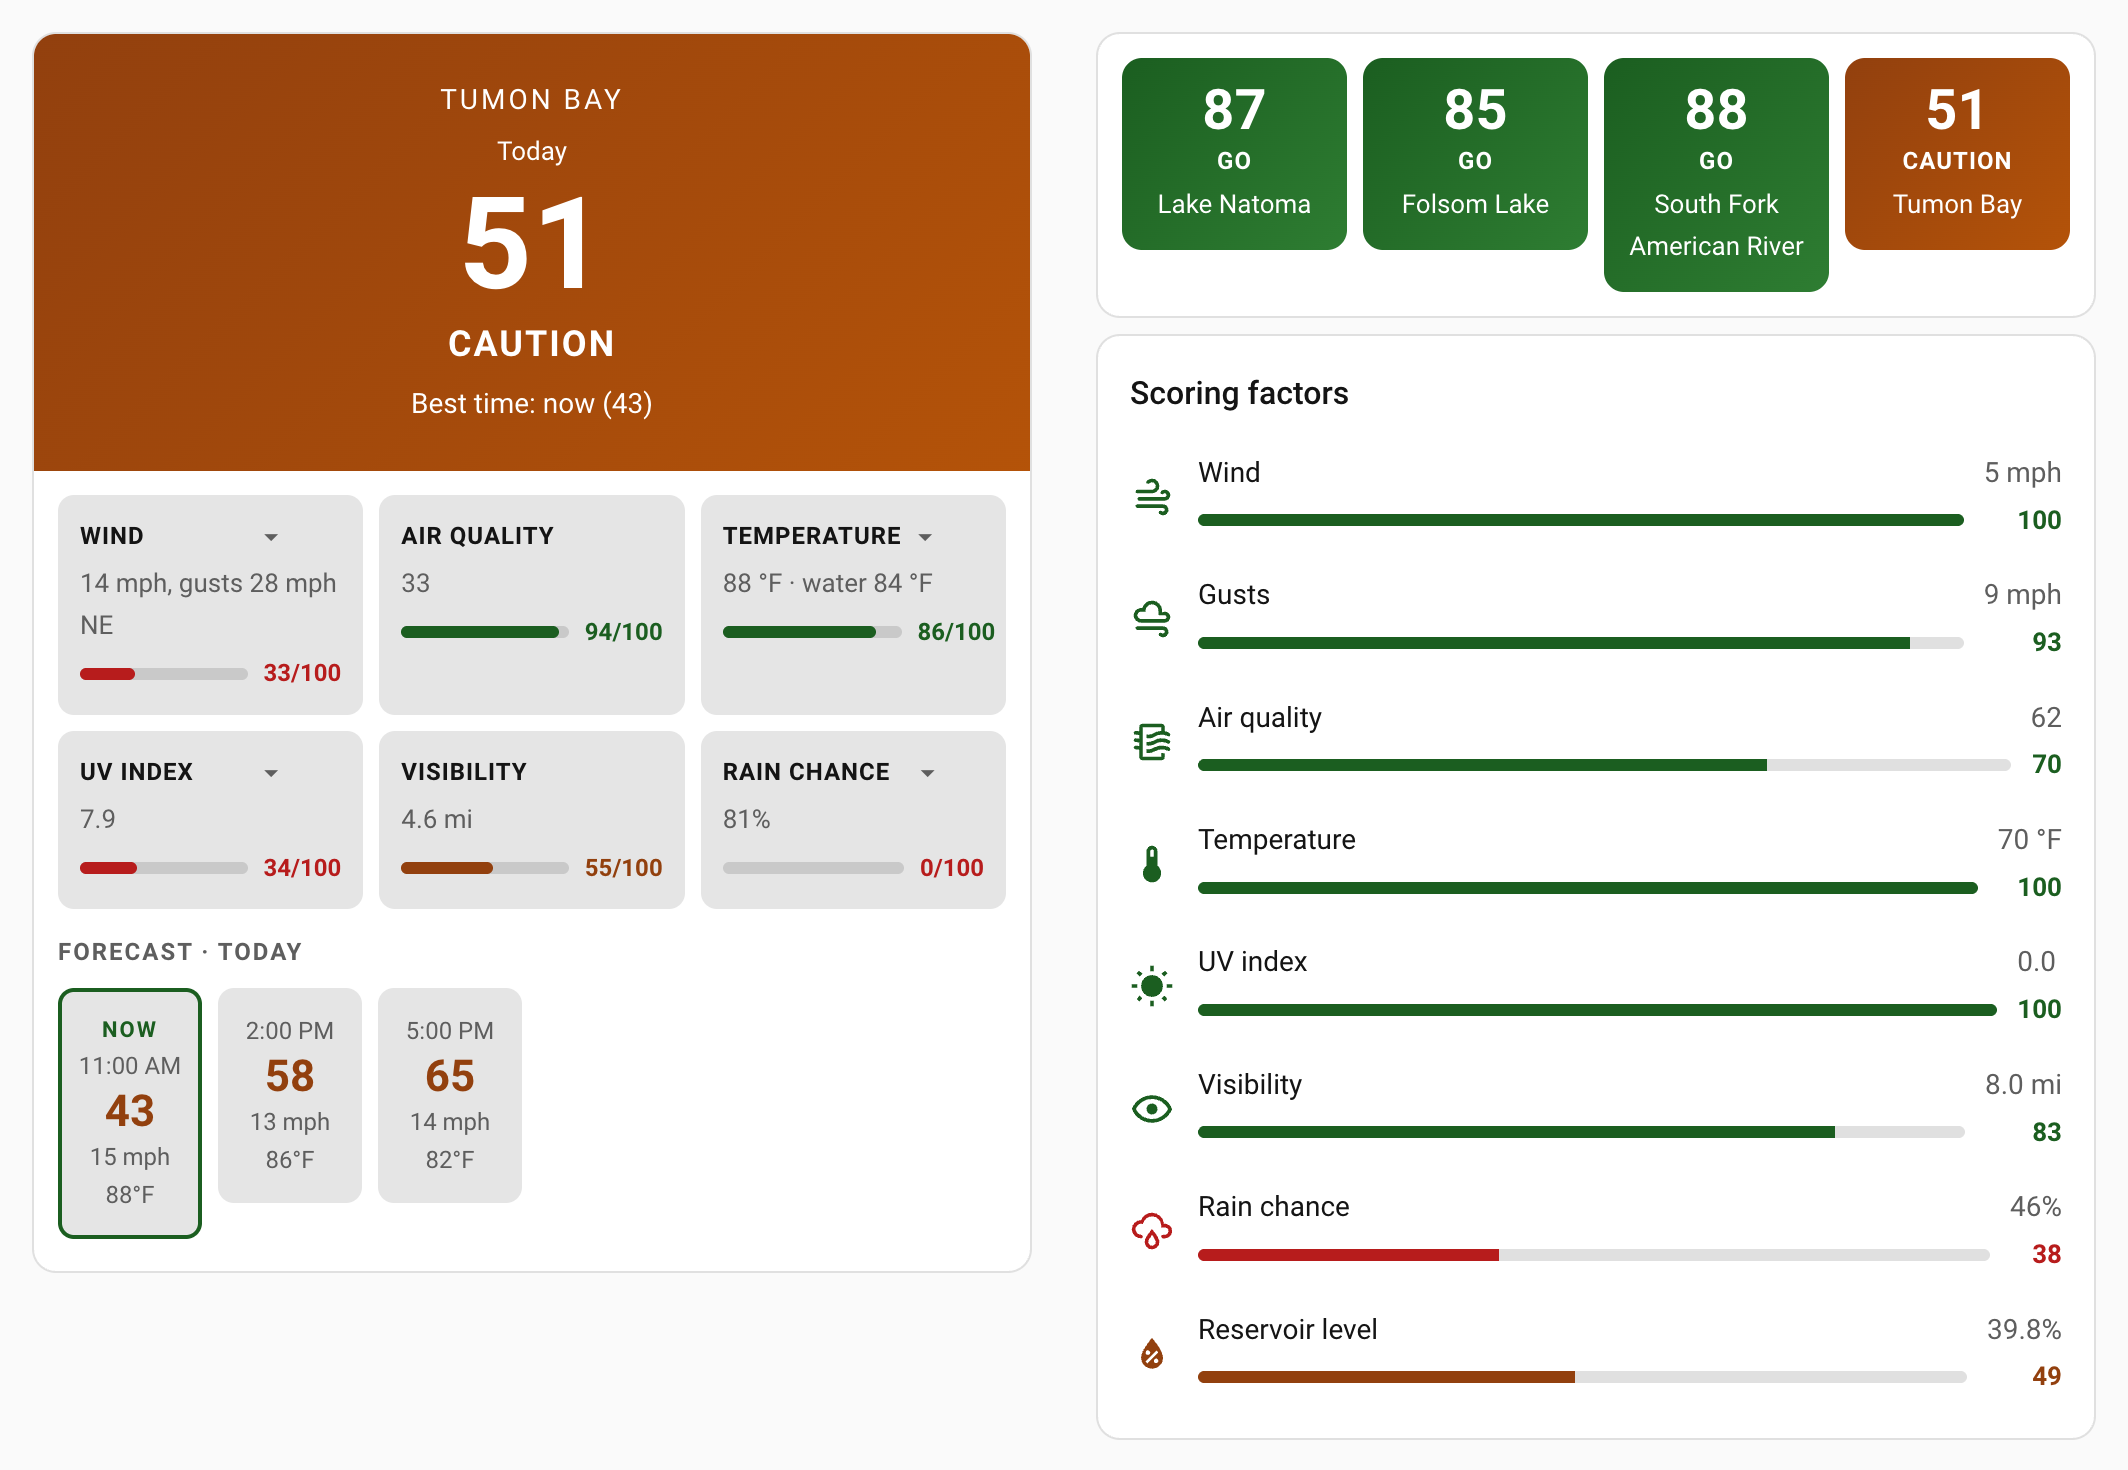
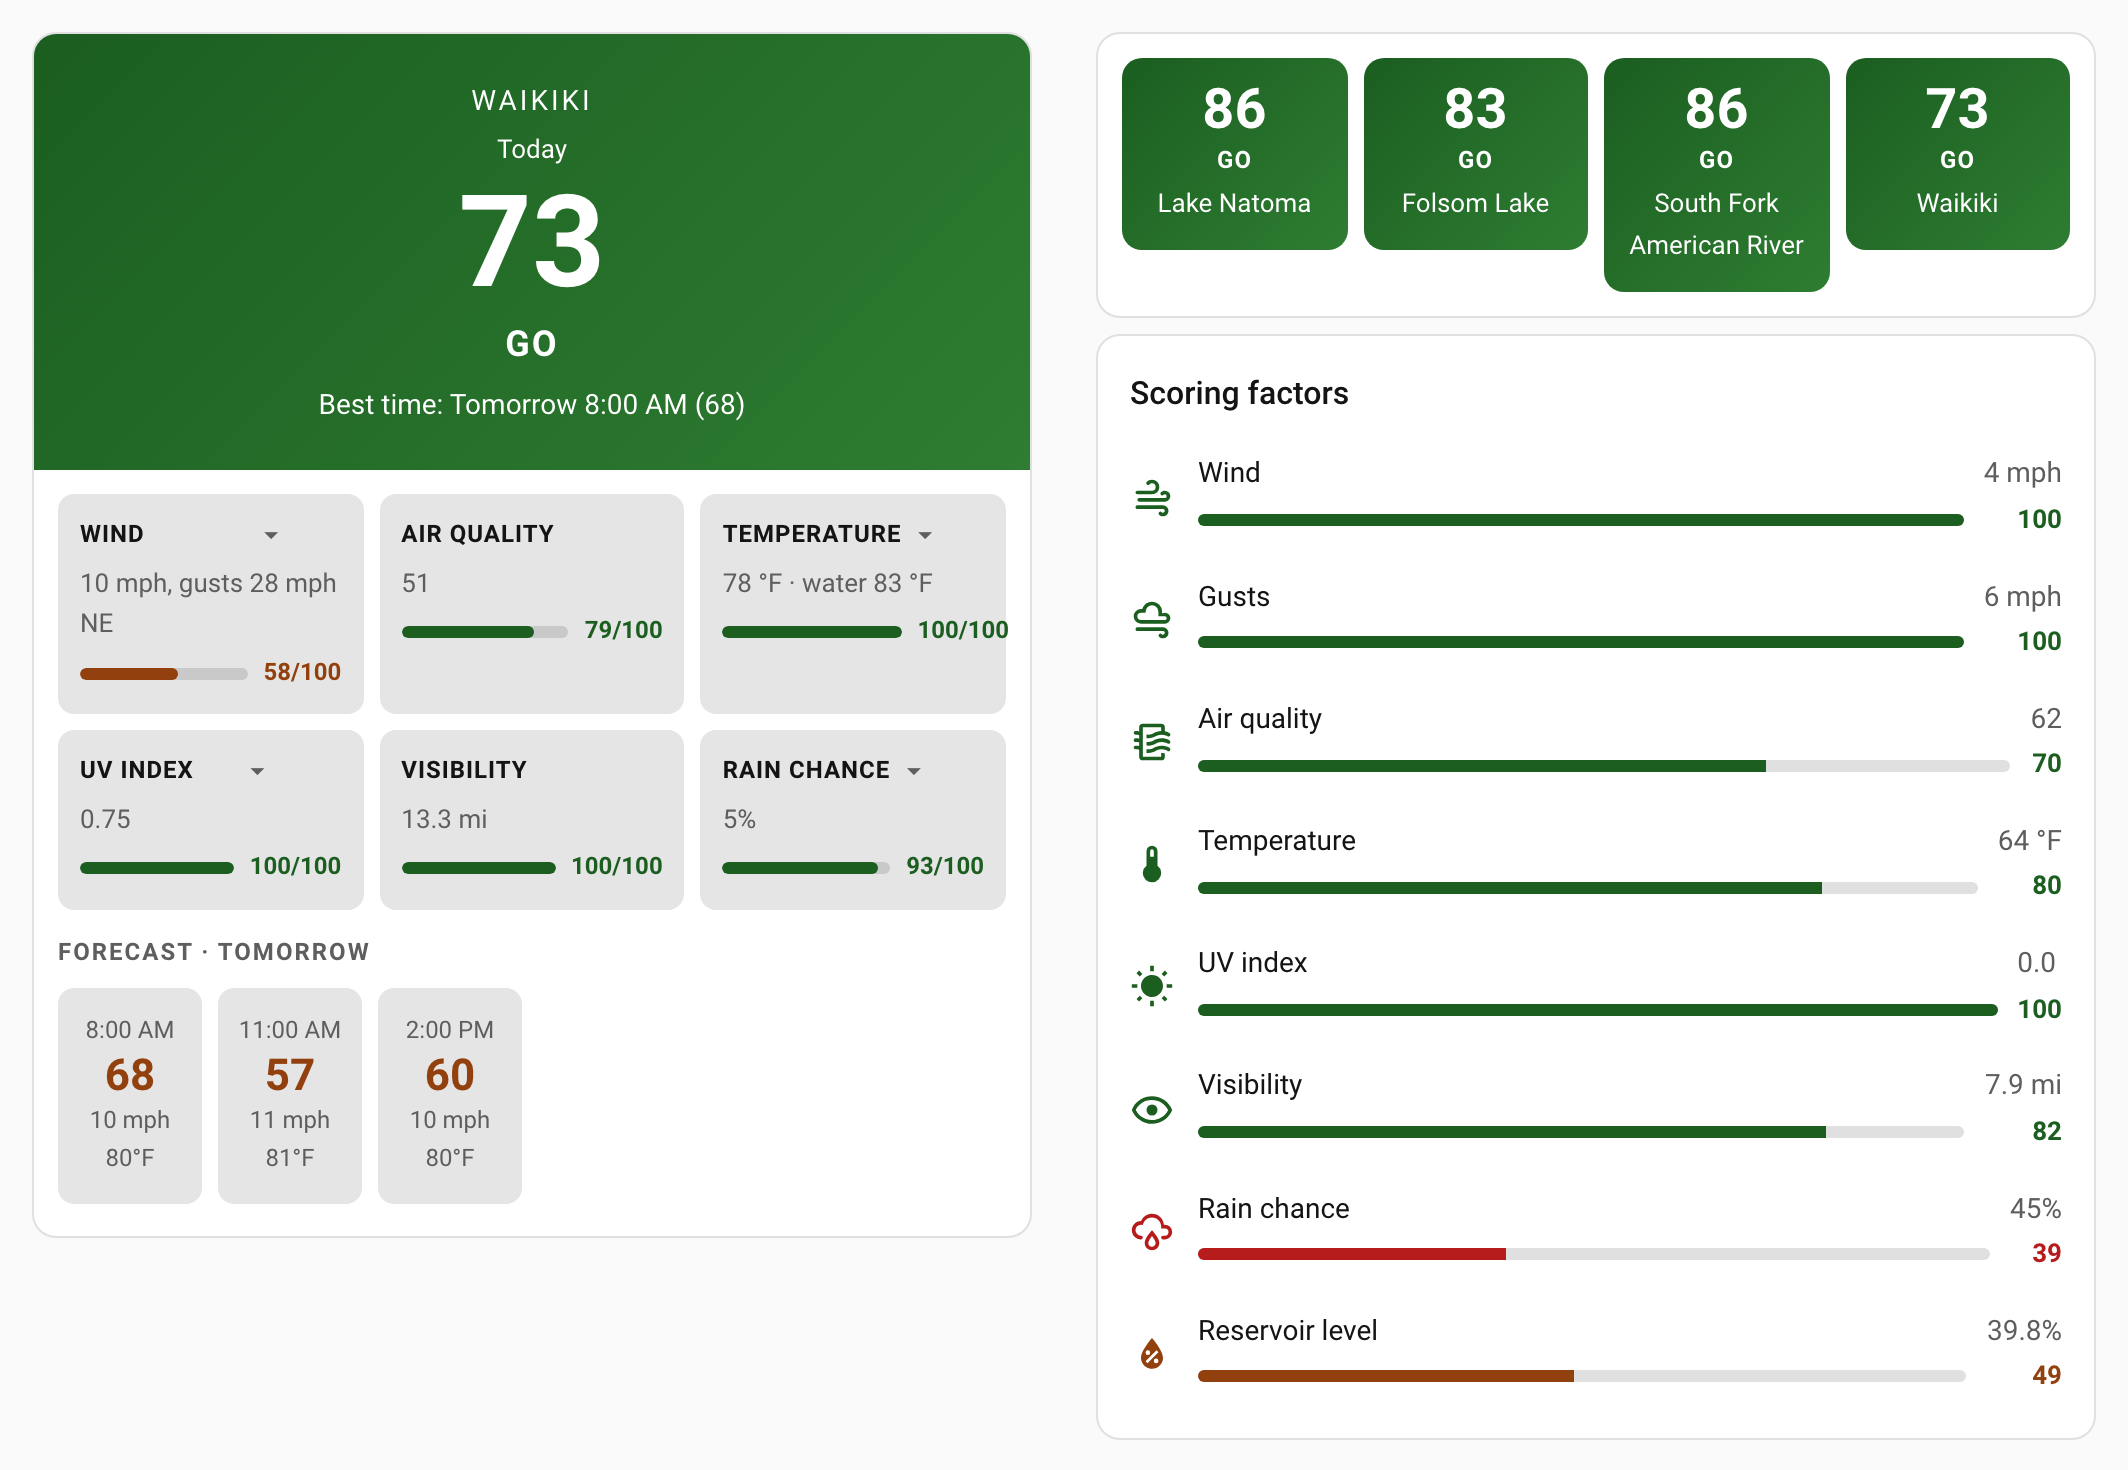
docs(readme): retake the screenshots on Waikiki at 2x
Daytime US spot at the time of the shot; the Tumon Bay images were from
Guam.

diff --git a/README.md b/README.md
@@ -7,7 +7,7 @@
 Paddle Conditions scores each of your paddle spots from 0 to 100 and calls it Go, Caution or No-go, then finds the best three-hour window in the next day. It's a [Home Assistant](https://www.home-assistant.io/) integration that reads wind, air quality, temperature, UV, visibility, rain and water data from free public sources, so there is nothing to sign up for.
 
 <p align="center">
-  <img src="docs/images/dashboard.png" alt="A Home Assistant dashboard with Paddle Conditions cards: Tumon Bay scored 51, Caution, with a tile per factor and the next three forecast blocks; a row of four spots, three Go and one Caution; and the scoring factors for Folsom Lake, including reservoir level at 39.8 percent" width="820"/>
+  <img src="docs/images/dashboard.png" alt="A Home Assistant dashboard with Paddle Conditions cards: Waikiki scored 73, Go, with a tile per factor and the next three forecast blocks; a row of four spots, all Go; and the scoring factors for Folsom Lake, including reservoir level at 39.8 percent" width="820"/>
 </p>
 
 I built this because I was tired of checking four different apps before every paddle. Wind on one site, AQI on another, water temp somewhere else, streamflow on a USGS page that looks like it was designed in 1998. I paddle year-round on spots like [Lake Natoma](https://www.mklibrary.com/lake-natoma-california/), [Sand Harbor at Tahoe](https://www.mklibrary.com/sand-harbor-state-park-paddle-boarding/), and [New Bullards Bar Reservoir](https://www.mklibrary.com/new-bullards-bar-reservoir-california/), and I do [distance sessions](https://www.mklibrary.com/why-you-bonk-on-long-paddle-board-sessions/) where conditions at launch can be completely different from conditions at mile 5. I needed one place that pulled it all together and told me: should I go, or not?
@@ -124,7 +124,7 @@ Six cards come with the integration, so there's nothing else to download from HA
 | `paddle-history-card` | Score history over 7, 30 or 90 days, with the average, the best score and the number of Go days |
 
 <p align="center">
-  <img src="docs/images/details.png" alt="The score card's details view for Tumon Bay: hourly charts for the paddle score, wind and gusts, air and water temperature, UV index and rain chance" width="300"/>
+  <img src="docs/images/details.png" alt="The score card's details view for Waikiki: hourly charts for the paddle score, wind and gusts, air and water temperature, UV index and rain chance" width="300"/>
 </p>
 
 The best time to go uses the spot's own sunrise and sunset and ends at least two hours before dark.
